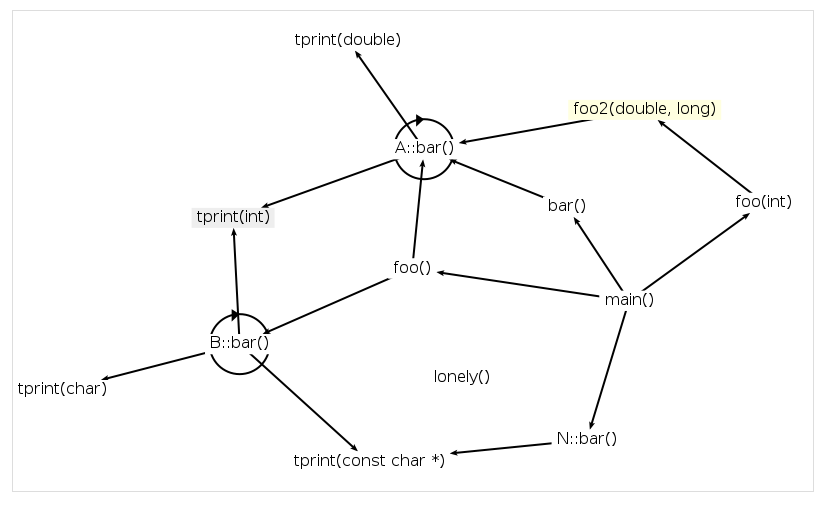
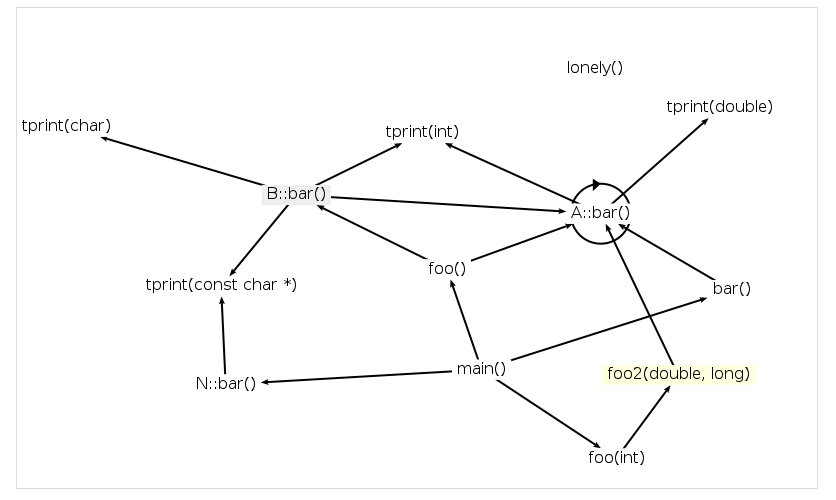
slide is ready

diff --git a/samples/main.cpp b/samples/main.cpp
@@ -1,9 +1,9 @@
-#include <iostream>
-using namespace std;
+//#include <iostream>
+//using namespace std;
 
 template<class T>
 void tprint(T t) {
-	cout << t << endl;
+	//cout << t << endl;
 }
 
 class A {
@@ -19,7 +19,7 @@ public:
 class B : public A {
 public:
 	virtual int bar() {
-		bar();
+		A::bar();
 		tprint('a');
 		tprint(1);
 		tprint("char");

diff --git a/web/sample_code.cpp b/web/sample_code.cpp
@@ -19,7 +19,7 @@ public:
 class B : public A {
 public:
 	virtual int bar() {
-		bar();
+		A::bar();
 		tprint('a');
 		tprint(1);
 		tprint("char");
